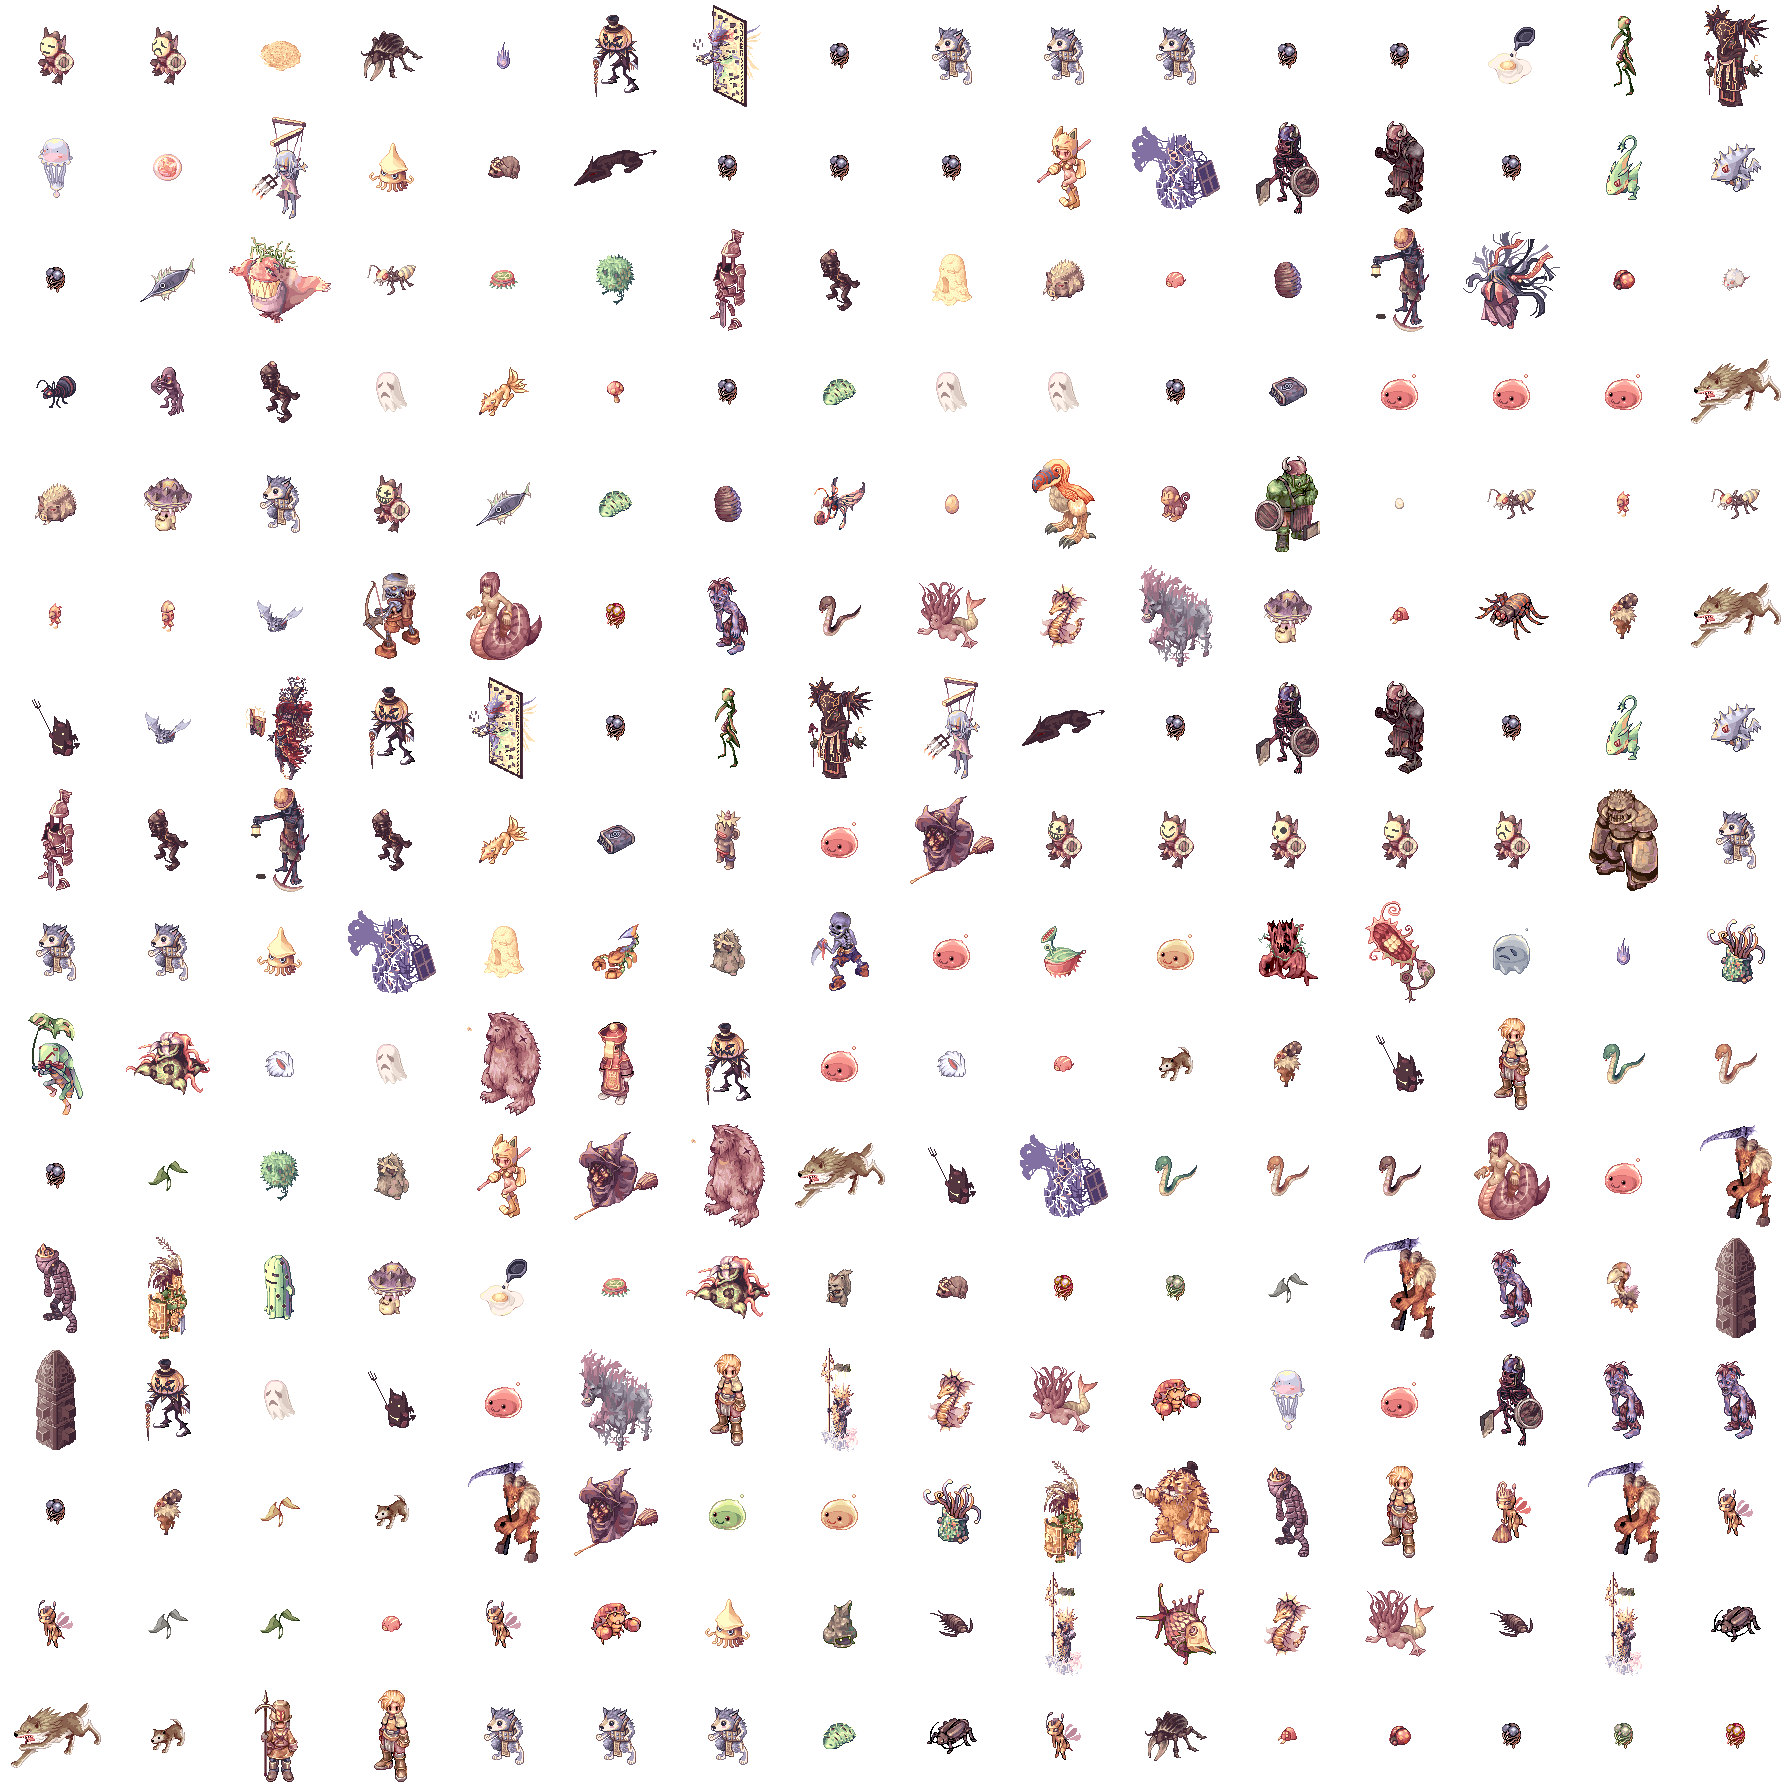
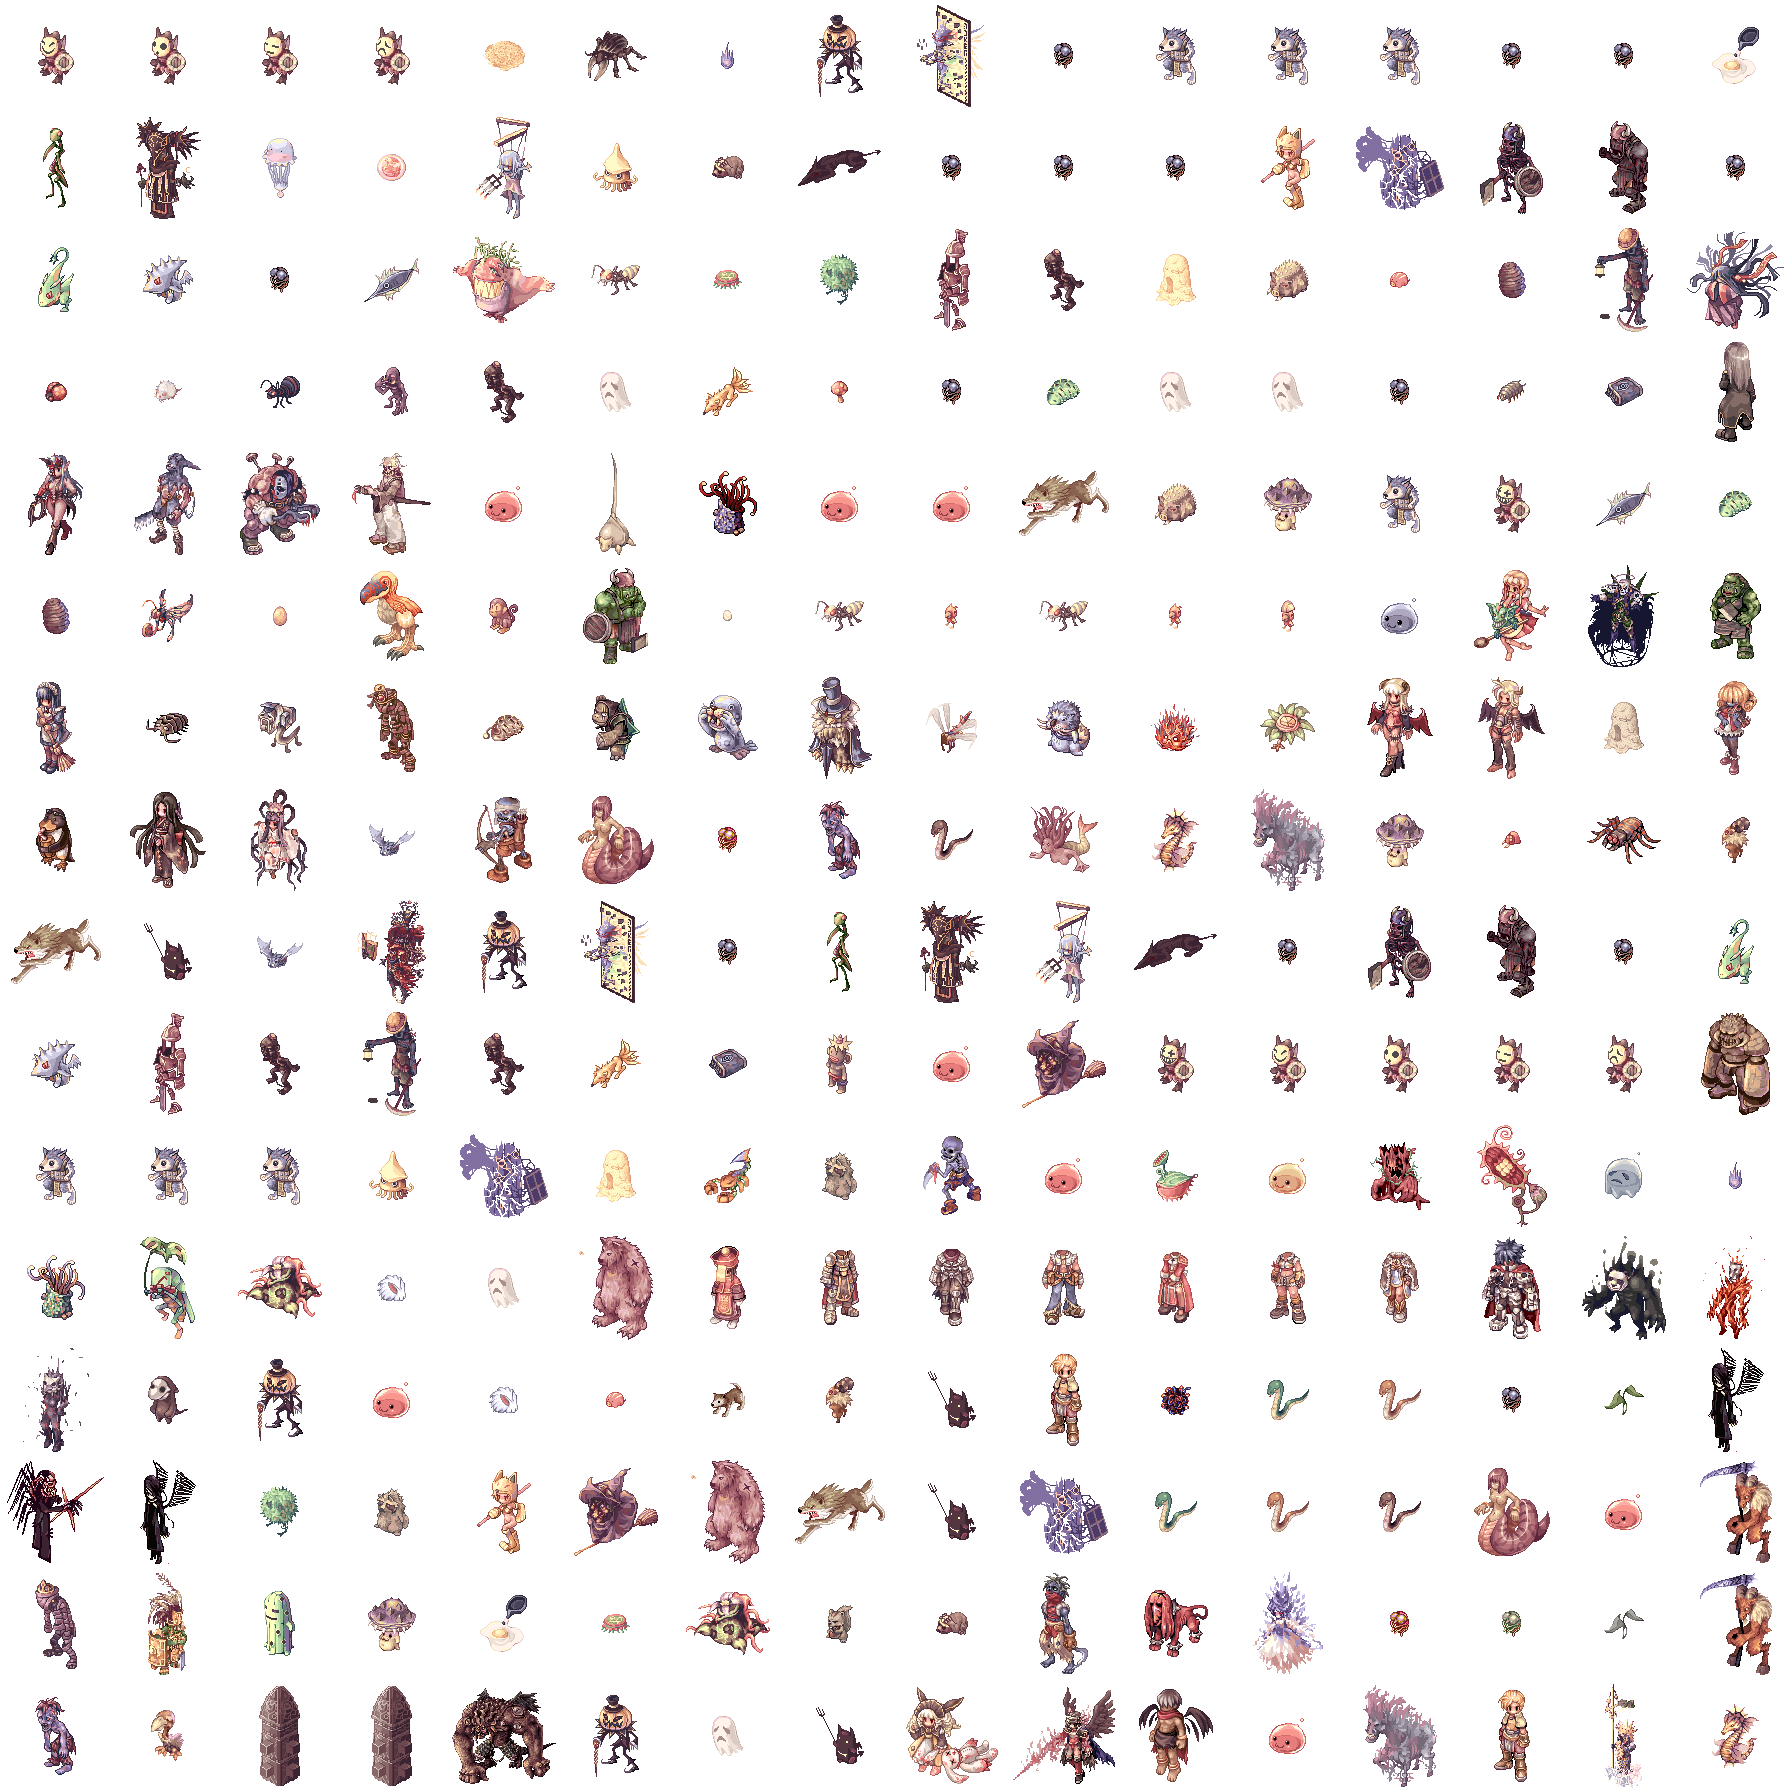
fix(resources): Refresh NPC thumbnail atlases

diff --git a/changelog/2026/10/2026-10-23.md b/changelog/2026/10/2026-10-23.md
@@ -43,3 +43,8 @@
 - `[client]` 桌面右下角新增自动战斗、自动拾取和设置三个常驻按钮，独立启停并显示选中状态与悬停提示；设置窗口仅保留参数，移除重复总开关，拾取保存失败明确提示。
 
 - `[client]` 移除桌面自动战斗和拾取按钮的状态点，战斗图标替换为 Lucide 线框双剑，拾取图标保持原样；开启状态继续通过背景和边框表达。
+
+## 修复
+
+- `[client]` 从已核验离线资源补齐另外 114 种魔物外观 NPC 的目录缩略图，覆盖 427 个 NPC 实例，并同步目录与客户端图集。
+- `[client]` 补齐经典修炼场三只宠物教学小波利共用的 2398 外观缩略图，来源为已校验的 20261023 离线资源包；同步 NPC 目录及客户端图集。
